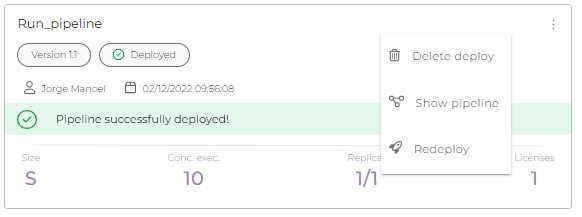
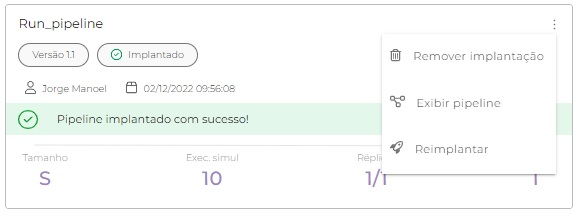
GitBook: [#691] No subject

diff --git a/run/reimplantando-um-pipeline.md b/run/reimplantando-um-pipeline.md
@@ -14,7 +14,7 @@ No _card_ do _pipeline_, as opções das ações a serem realizadas no _pipeline
 
 Existem três opções listadas aqui: **Excluir implantação** e **Mostrar **_**pipeline**_, que existiam antes, e o mais recente recurso **Reimplantar**. [Para saber mais sobre as opções, leia este artigo.](https://docs.digibee.com/documentation/v/pt-br/run/visao-geral#opcoes-no-pipeline)
 
-Ele é exibido no card do pipeline, conforme mostrado abaixo.
+Ele é exibido no _card_ do _pipeline_, conforme mostrado abaixo.
 
 <figure><img src="../.gitbook/assets/card.jpg" alt=""><figcaption></figcaption></figure>
 
@@ -22,12 +22,12 @@ Ele é exibido no card do pipeline, conforme mostrado abaixo.
 
 Com esta funcionalidade, não é necessário clicar em **CRIAR** e definir todas as informações como antes. Então, ao clicar no botão **Reimplantar**, mostra as informações da implantação existente e todas as informações definidas anteriormente já estão preenchidas.
 
-<figure><img src="../.gitbook/assets/history.jpg" alt=""><figcaption></figcaption></figure>
+<figure><img src="../.gitbook/assets/historico.jpg" alt=""><figcaption></figcaption></figure>
 
 As únicas alterações que precisam ser feitas são as opções desejadas para reimplantar a versão do _pipeline_ escolhida, como tamanho, execuções simultâneas e réplicas. \
-Uma vez selecionado, basta clicar em **Implantar** e o _pipeline_ será reimplantado.
+Uma vez selecionado, basta clicar em **IMPLANTAR** e o _pipeline_ será reimplantado.
 
-<figure><img src="../.gitbook/assets/redeploy.jpg" alt=""><figcaption></figcaption></figure>
+<figure><img src="../.gitbook/assets/reimplantar.jpg" alt=""><figcaption></figcaption></figure>
 
 Esse é um recurso importante que permite que um _pipeline_ seja reimplantado mais rapidamente quando ocorre um erro, levando a alterar o tamanho do _pipeline_ para uma implantação completa sem a necessidade de preencher todos os campos do _pipeline_ que deve ser reimplantado.
 
